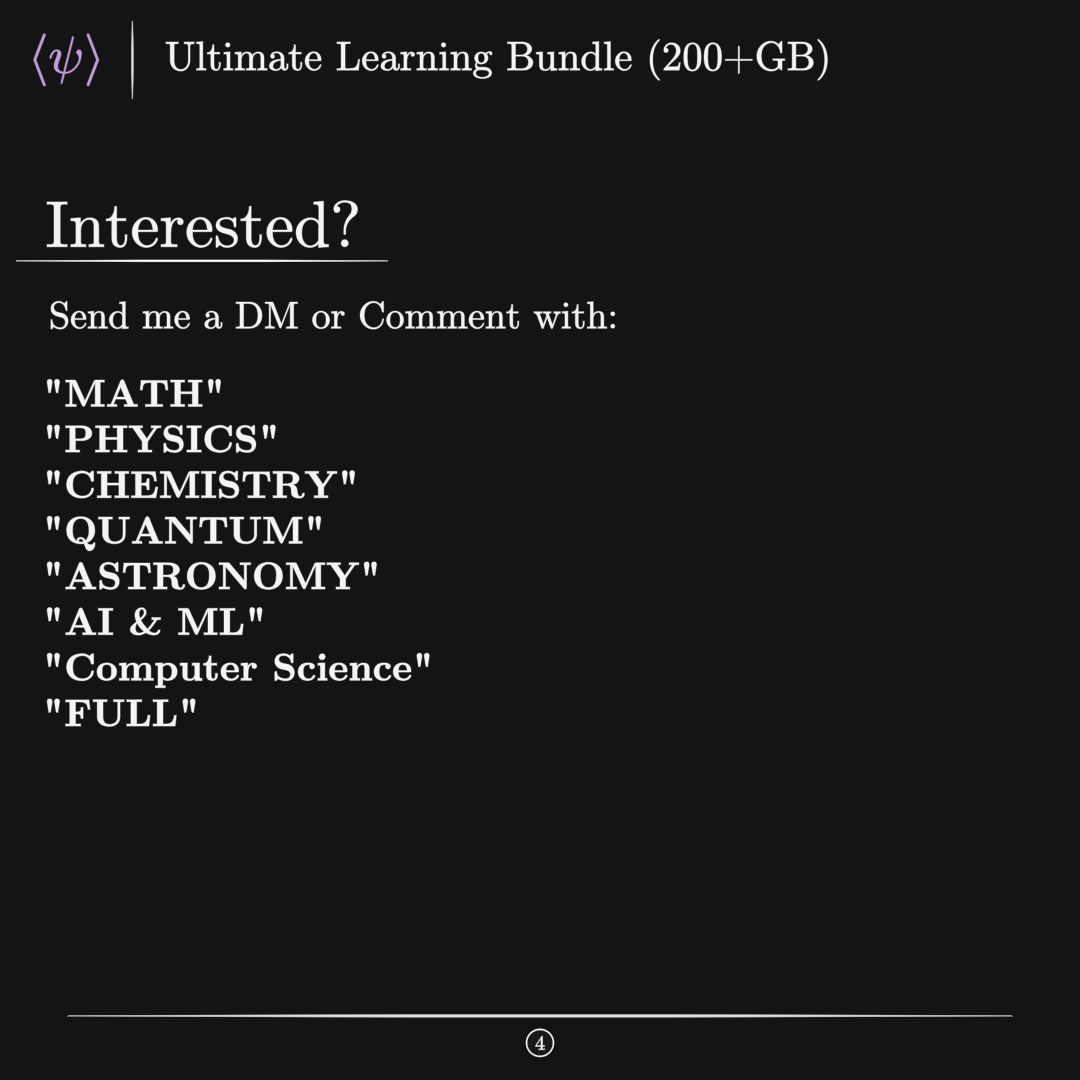
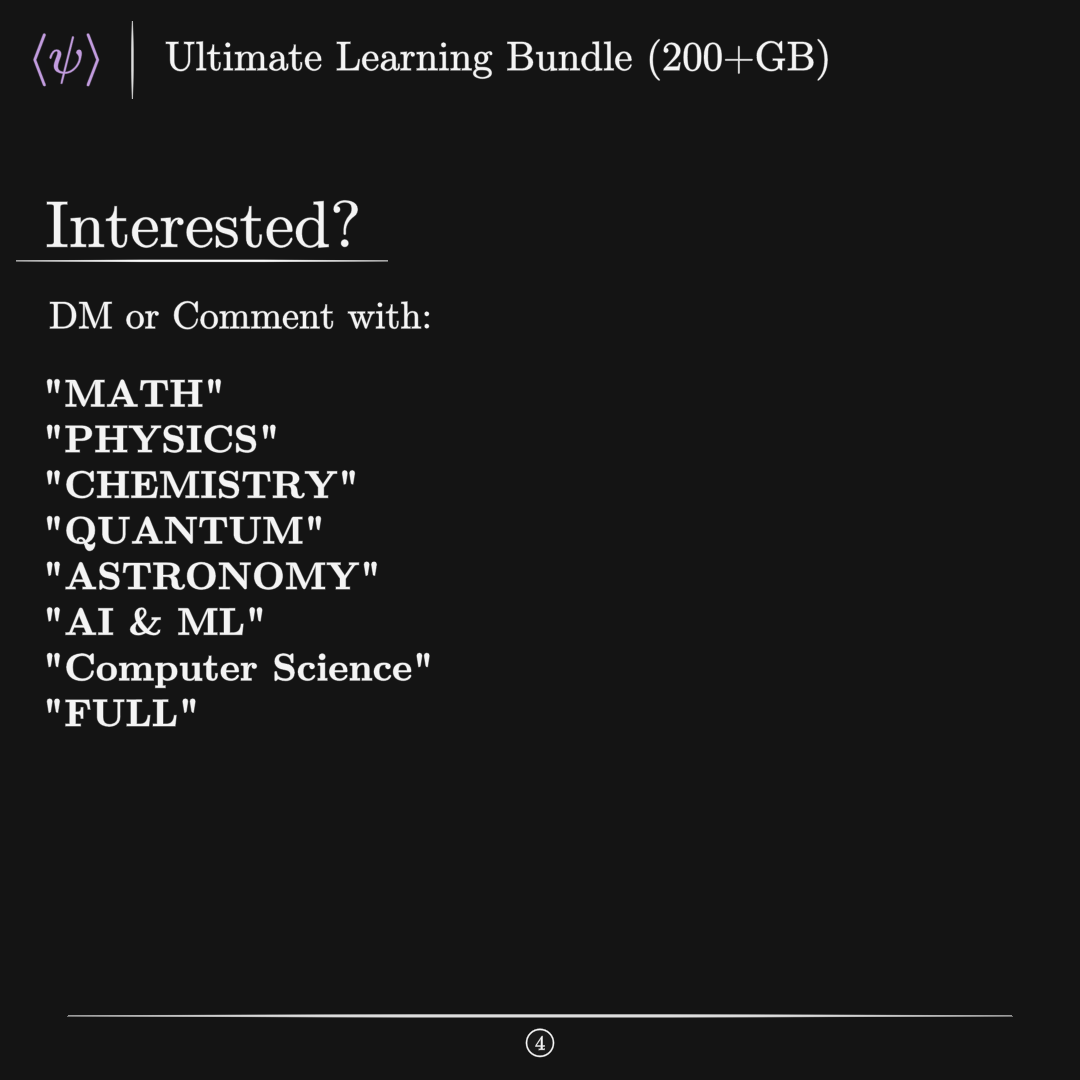
f

Changed region(s): [[0.0306, 0.275, 0.5806, 0.3056]]

diff --git a/test.py b/test.py
@@ -157,7 +157,7 @@ class Payment(PaidTemplate):
 
         body = TexText(
             r"""
-            Send me a DM or Comment with:\\[0.3cm]
+            DM or Comment with:\\[0.3cm]
             \textbf{"MATH"}\\
             \textbf{"PHYSICS"}\\
             \textbf{"CHEMISTRY"}\\

diff --git a/latex_cache/working.tex b/latex_cache/working.tex
@@ -27,7 +27,7 @@
 \begin{document}
 
 \flushleft
-Send me a DM or Comment with:\\[0.3cm]
+DM or Comment with:\\[0.3cm]
             \textbf{"MATH"}\\
             \textbf{"PHYSICS"}\\
             \textbf{"CHEMISTRY"}\\
